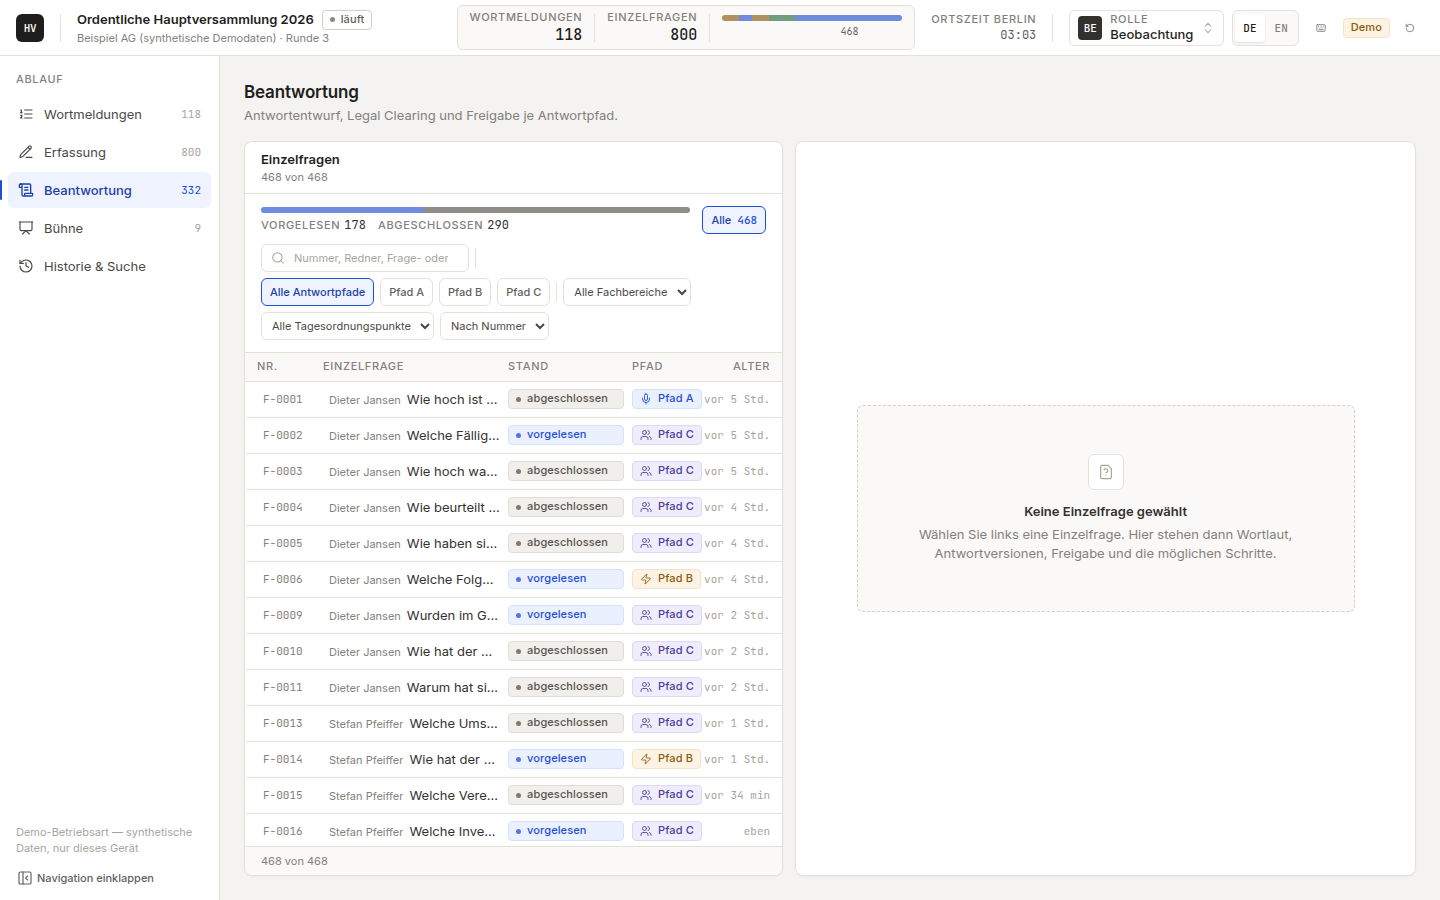
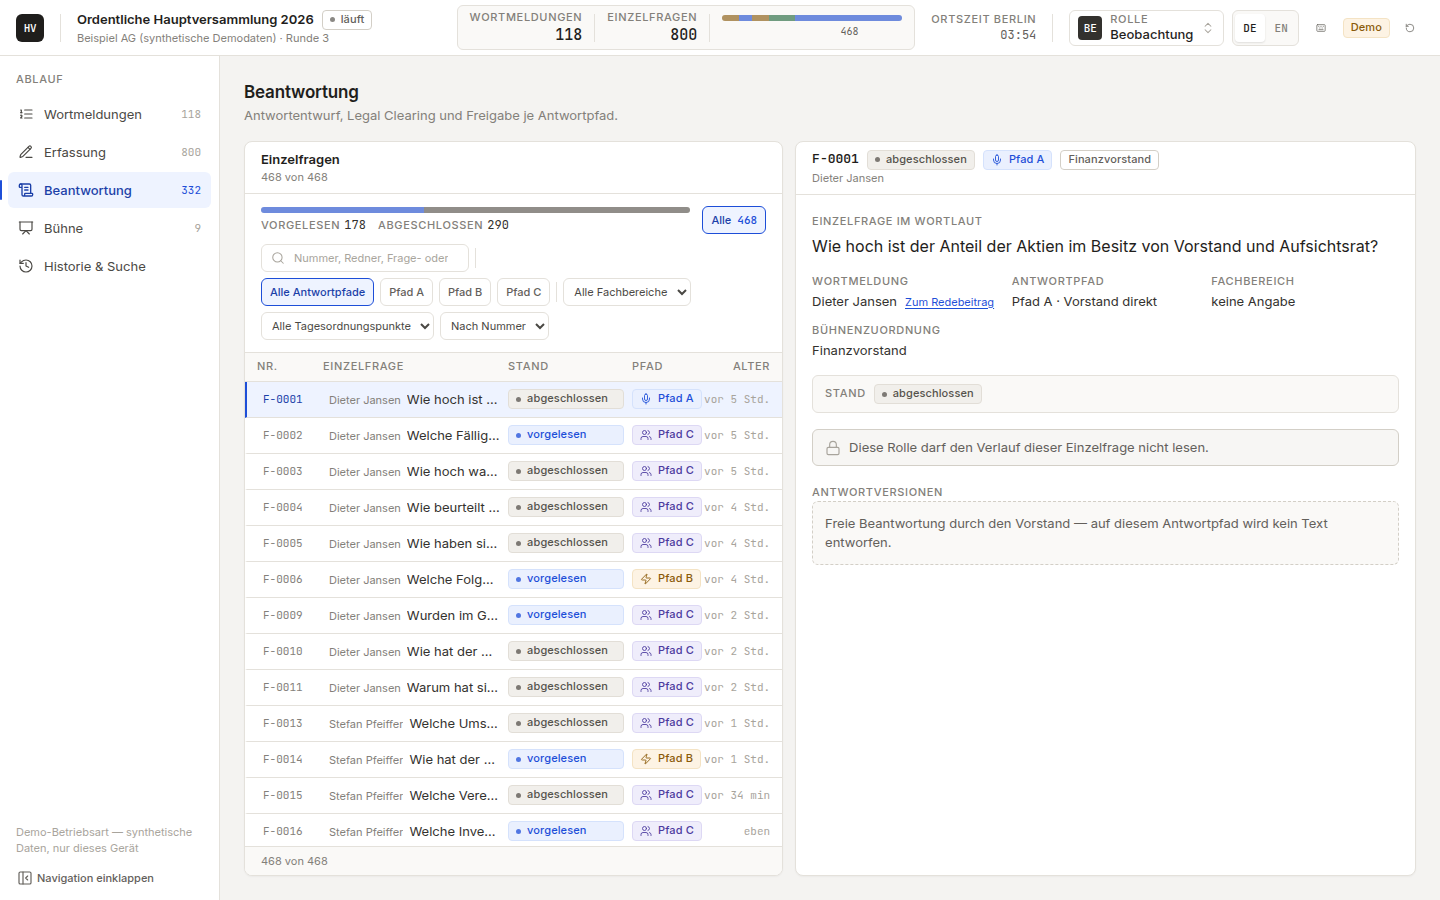
test(web): e2e-Nacharbeit — Blocker, Major und die Test-Lücken der Runde 2 (Scheibe 010b) [skip netlify]
Neue Szenarien: Erfassung unter observer (Blocker), Beantwortung/Historie unter podium (test gap
8b, ganze Ansicht ohne jedes Leserecht), Bühne unter expert mit gespeichertem "Nur Bühne" (minor 4).
Bestehende Szenarien erweitert: Beantwortung unter observer öffnet jetzt eine Zeile und prüft die
sichtbare Einzelfrage samt Verlaufs-Hinweis (major); die Ereignisstrom-Prüfung unter observer prüft
zusätzlich, dass keine veraltete Ereigniszahl stehen bleibt (minor 3); die Historie-unter-expert-Probe
prüft zusätzlich den Ereignisstrom-Tab, mit einer Begründung, warum "Namen aus listSpeakers fehlen"
unter den heutigen Rechtevergaben nirgends sichtbar ist (test gap 8a).

Der No-Toast-Helfer ist jetzt auf den echten Toast-Container beschränkt (role="status" sitzt jetzt
auch auf jedem gestalteten Zustand, minor 5, und hätte sich sonst selbst gefunden) und wartet zwei
Frames statt sich auf eine sofort erfüllte Zusicherung zu verlassen (nit 11a). Titel-Zeichensetzung
in den Assertions an die geänderten Wörterbucheinträge angepasst.

Screenshots (nur die drei betroffenen, unverändert inhaltlich, mit der Zeitleiste einer neuen
Aufnahme neu erzeugt): 010b-answers-observer-{de,en}.png zeigt jetzt zusätzlich die geöffnete
Einzelfrage mit dem Verlaufs-Hinweis (major).

Roter und grüner Lauf der Erfassungs-Blocker-Probe, die volle Playwright-Zusammenfassung, das
`pnpm gates`-Ende und die slice-scope-Zeile stehen im Bericht.

Claude-Session: https://claude.ai/code/session_01S9NCWL4pWEoGm6P6dJbckX

diff --git a/apps/web/e2e/010b-lesepfade.spec.ts b/apps/web/e2e/010b-lesepfade.spec.ts
@@ -7,11 +7,20 @@
  * the house's existing empty-state component instead of an error toast (docs/design-prinzipien.md,
  * "Fehler zeigen Grund und Regel-ID" / "leere Zustände sind gestaltet").
  *
- * Covers every state docs/slices/010b-lesepfade-oberflaeche.md's Ziel 5 lists:
+ * Covers every state docs/slices/010b-lesepfade-oberflaeche.md's Ziel 5 lists, plus the gaps a
+ * review round found ("Nacharbeit nach Review und Codex" in the same spec's Bericht):
  *   - Wortmeldeliste under podium (no `speaker.read` at all).
- *   - Bühne under expert (holds `question.read`, but no `stage.read`).
+ *   - Bühne under expert (holds `question.read`, but no `stage.read`) — twice: once with the
+ *     ordinary layout's own default, once with a stored "Nur Bühne" choice forced ahead of the
+ *     visit, proving the fullscreen device and its chrome never take over a role that cannot read
+ *     the stage (minor 4).
+ *   - Erfassung under observer (blocker, also Codex P1: `listContributions` used to run only once
+ *     a `speakerId` resolved, and every role denied `contribution.read` is also denied
+ *     `speaker.read`, so it never even tried the Hauptabfrage).
  *   - Beantwortung under observer (holds the scoped `question.read.delivered` — sees fewer rows,
- *     never a forbidden state of its own, per Ziel 3).
+ *     never a forbidden state of its own, per Ziel 3), including opening a row (major finding:
+ *     `getQuestion`/`getQuestionHistory` used to share one `Promise.all`, so a denied history
+ *     rejected the question too and a click looked like nothing happened).
  *   - Historie under observer (Trefferliste scoped the same way; the Vorgangshistorie- and
  *     Ereignisstrom-tabs of the right panel *are* forbidden — observer holds neither `history.read`
  *     nor `event.read`).
@@ -19,6 +28,8 @@
  *     used to be bundled into the same `Promise.all` as the corpus read it shares no permission
  *     with, and a denied Nebenabfrage rejected the whole group — the timeline could never open even
  *     though expert can read every question and its history fine).
+ *   - Beantwortung and Historie under podium (test gap 8b, acceptance criterion 1): the whole-view
+ *     gestalteter Zustand for a role denied the Hauptabfrage outright, not just scoped like observer.
  * Every scenario also checks axe (slice 013's two-pass helper) and that no error toast appears.
  */
 import { expect, test } from '@playwright/test';
@@ -45,10 +56,24 @@ async function waitForCorpus(page: Page): Promise<void> {
     .toBeGreaterThanOrEqual(SEEDED_QUESTIONS);
 }
 
-/** Toasts (`components/Toast.tsx`) render as `role="status"` — a refused read must never raise one
- *  (Ziel 5, "Kein Fehler-Toast in diesen Fällen"), only the gestaltete Zustand it is replaced by. */
+/**
+ * Toasts (`components/Toast.tsx`) render as `role="status"` inside the shell's one
+ * `aria-live="polite"` stack (`ToastProvider`) — scoped to that container, not to `role="status"`
+ * alone: minor 5 (review round 2) gives every gestaltete Zustand the same role so a screen reader
+ * announces it too, and an unscoped selector would find those instead of an actual toast.
+ *
+ * Nit 11a: `expect(...).toHaveCount(0)` resolves the instant the count reads zero — it does not
+ * wait out its own timeout to see whether a toast is still on its way in. The in-process demo API
+ * (`apps/web/src/api/index.ts`) settles every read on a microtask, well within a frame, so one
+ * settled repaint (`requestAnimationFrame`, twice — Chromium can coalesce a single one with work
+ * already queued) is enough of a wait to be honest, without the flakiness `networkidle` risks
+ * against Vite's own always-open HMR socket.
+ */
 async function expectNoErrorToast(page: Page): Promise<void> {
-  await expect(page.locator('[role="status"]')).toHaveCount(0);
+  await page.evaluate(
+    () => new Promise<void>((resolve) => requestAnimationFrame(() => requestAnimationFrame(() => resolve()))),
+  );
+  await expect(page.locator('[aria-live="polite"] [role="status"]')).toHaveCount(0);
 }
 
 /** The status word of a Historie result row — its last direct `<span>` child, the `StatusBadge`
@@ -107,10 +132,76 @@ test('Bühne unter expert zeigt den Zustand "keine Leseberechtigung"', async ({ 
   await page.getByTestId('lang-toggle').click();
   await page.getByTestId('lang-option-en').click();
   await expect(page.locator('html')).toHaveAttribute('lang', 'en');
-  await expect(forbidden).toContainText('This role has no read permission for this view.');
+  await expect(forbidden).toContainText('This role has no read permission for this view');
   await expectNoErrorToast(page);
   await page.evaluate(() => document.fonts.ready);
   await page.screenshot({ path: evidence('010b-stage-expert-en.png') });
+});
+
+test('Bühne unter expert bleibt im gewöhnlichen Layout, auch wenn "Nur Bühne" gespeichert ist', async ({
+  page,
+}) => {
+  /**
+   * Minor 4 (review round 2): a stored "Nur Bühne" choice (`hv-stage-only-v1`) is a fact about the
+   * device, not about whether this role may currently read the stage — no role that is denied
+   * `stage.read` ever derives "Nur Bühne" on its own (`stageOnlyByRights` needs `question.deliver`,
+   * and the only role that holds it, podium, always holds `stage.read` too), so this can only be
+   * observed by forcing the stored choice ahead of the visit, before the app boots.
+   */
+  await page.addInitScript(() => {
+    window.localStorage.setItem('hv-stage-only-v1', '1');
+  });
+  await page.goto('/');
+  await waitForCorpus(page);
+
+  await asRole(page, 'expert');
+  await page.getByTestId('nav-stage').click();
+  await expect(page).toHaveURL(/\/stage$/);
+
+  // The fullscreen "Nur Bühne" overlay, and every counter/toggle it would have carried, stays off
+  // — a role that cannot read the stage gets the ordinary layout's gestalteter Zustand instead of
+  // a fullscreen device with nothing real to show.
+  await expect(page.getByTestId('stage-only')).toHaveCount(0);
+  const forbidden = page.getByTestId('stage-forbidden');
+  await expect(forbidden).toBeVisible();
+  await expect(page.getByTestId('stage-counter-delivered')).toHaveCount(0);
+  await expect(page.getByTestId('stage-counter-open')).toHaveCount(0);
+  await expect(page.getByTestId('stage-contrast-toggle')).toHaveCount(0);
+  await expect(page.getByTestId('stage-only-toggle')).toHaveCount(0);
+
+  // The keyboard shortcuts of a device that has nothing to act on are refused outright — a click
+  // on the gestaltete Zustand's own text first moves focus off the nav link `nav-stage` just
+  // activated (an `<a>`, itself an interactive target the handler already ignores) so this
+  // actually exercises the new `forbidden` guard, not the pre-existing interactive-target one.
+  await forbidden.click();
+  await page.keyboard.press('Space');
+  await expectNoErrorToast(page);
+  await expect(page.getByTestId('stage-current')).toHaveCount(0);
+
+  await checkAxe(page, 'stage (expert, no read permission, stored "Nur Bühne")');
+});
+
+test('Erfassung unter observer zeigt den Zustand "keine Leseberechtigung"', async ({ page }) => {
+  await page.goto('/');
+  await waitForCorpus(page);
+
+  // Blocker (review round 2, also Codex P1): observer holds neither `speaker.read` nor
+  // `contribution.read`. `listContributions` (the Hauptabfrage) used to run only once a
+  // `speakerId` existed, and `speakerId` is only ever derived from a successful `listSpeakers` —
+  // so a role denied both never triggered the Hauptabfrage's own 403 at all and fell through to
+  // the ordinary "no contribution chosen" empty desk, with the read-only hint on top of it (wrong:
+  // a role that cannot read the desk is not "read only" on it, it cannot see it).
+  await asRole(page, 'observer');
+  await page.getByTestId('nav-capture').click();
+  await expect(page).toHaveURL(/\/capture$/);
+
+  const forbidden = page.getByTestId('capture-forbidden');
+  await expect(forbidden).toBeVisible();
+  await expect(forbidden).toContainText('In dieser Rolle keine Leseberechtigung für diese Ansicht');
+  await expect(page.getByTestId('capture-readonly-hint')).toHaveCount(0);
+
+  await expectNoErrorToast(page);
+  await checkAxe(page, 'capture (observer, no read permission)');
 });
 
 test('Beantwortung unter observer zeigt nur vorgelesene Fragen', async ({ page }) => {
@@ -131,8 +222,21 @@ test('Beantwortung unter observer zeigt nur vorgelesene Fragen', async ({ page }
   // No gestalteter "keine Leseberechtigung"-Zustand here — the view stands with fewer rows, not none.
   await expect(page.getByTestId('answers-forbidden')).toHaveCount(0);
 
+  /**
+   * Major (review round 2): `getQuestion` and `getQuestionHistory` used to share one
+   * `Promise.all` — observer holds no `history.read`, so every row click rejected as a whole and
+   * the detail stayed on "Keine Einzelfrage gewählt" with no feedback at all. The question must
+   * show regardless, and the refused state stands where its history would be.
+   */
+  await rows.first().click();
+  await expect(page.getByTestId('answers-detail')).toBeVisible();
+  await expect(page.getByTestId('answers-detail-number')).not.toBeEmpty();
+  const historyForbidden = page.getByTestId('answers-history-forbidden');
+  await expect(historyForbidden).toBeVisible();
+  await expect(historyForbidden).toContainText('Diese Rolle darf den Verlauf dieser Einzelfrage nicht lesen.');
+
   await expectNoErrorToast(page);
-  await checkAxe(page, 'answers (observer, delivered/closed only)');
+  await checkAxe(page, 'answers (observer, delivered/closed only, question detail open)');
 
   await page.evaluate(() => document.fonts.ready);
   await page.screenshot({ path: evidence('010b-answers-observer-de.png') });
@@ -140,6 +244,7 @@ test('Beantwortung unter observer zeigt nur vorgelesene Fragen', async ({ page }
   await page.getByTestId('lang-toggle').click();
   await page.getByTestId('lang-option-en').click();
   await expect(page.locator('html')).toHaveAttribute('lang', 'en');
+  await expect(historyForbidden).toContainText('This role may not read the course of this question.');
   await expectNoErrorToast(page);
   await page.evaluate(() => document.fonts.ready);
   await page.screenshot({ path: evidence('010b-answers-observer-en.png') });
@@ -180,17 +285,20 @@ test('Historie unter observer: nur Vorgelesenes, Zeitleiste und Ereignisstrom oh
   const streamForbidden = page.getByTestId('history-stream-forbidden');
   await expect(streamForbidden).toBeVisible();
   await expect(page.getByTestId('history-stream')).toHaveCount(0);
+  // Minor 3 (review round 2): the "Die letzten n Ereignisse" count line belongs to real data — it
+  // must not linger, stale, next to the refused state.
+  await expect(page.getByText(/Die letzten \d+ Ereignisse/)).toHaveCount(0);
   await expectNoErrorToast(page);
   await checkAxe(page, 'history (observer, Ereignisstrom forbidden)');
 
   await page.getByTestId('lang-toggle').click();
   await page.getByTestId('lang-option-en').click();
   await expect(page.locator('html')).toHaveAttribute('lang', 'en');
-  await expect(streamForbidden).toContainText('This role has no read permission for the event stream.');
+  await expect(streamForbidden).toContainText('This role has no read permission for the event stream');
   await page.getByTestId('history-tab-question').click();
   await expect(timelineForbidden).toBeVisible();
   await expect(timelineForbidden).toContainText(
-    'This role has no read permission for the history of this question.',
+    'This role has no read permission for the history of this question',
   );
   await expectNoErrorToast(page);
   await page.evaluate(() => document.fonts.ready);
@@ -218,6 +326,65 @@ test('Historie unter expert öffnet die Zeitleiste', async ({ page }) => {
   await expect(page.getByTestId('history-event').first()).toBeVisible();
   await expect(page.getByTestId('history-timeline-forbidden')).toHaveCount(0);
 
+  /**
+   * Test gap 8a (review round 2): "Namen aus listSpeakers fehlen" (docs/slices/010b-lesepfade-
+   * oberflaeche.md Ziel 5). `speakerNames` (the Nebenabfrage's own result) feeds exactly one
+   * place: `eventSubject()` (eventSummary.ts), read only by the "Ereignisstrom" tab's subject
+   * column — the "Vorgangshistorie" tab open above uses `eventSummary()` instead, which never
+   * reads it (`SpeakerRegistered`'s own name comes from `event.payload.displayName`, embedded in
+   * the event itself, not looked up). `event.read` — the Ereignisstrom's own Hauptabfrage — is
+   * held by no role that lacks `speaker.read` either (`event.read`: admin only; admin holds every
+   * permission, docs/slices/010-lesepfade-leserechte.md Festlegung 4): under today's grants there
+   * is no role for which "the names are missing but the events show" is a state that exists on
+   * screen anywhere to assert on. What is real and testable is the total absence this Nebenabfrage
+   * denial shares with `event.read`'s own denial — checked here.
+   */
+  await page.getByTestId('history-tab-stream').click();
+  await expect(page.getByTestId('history-stream-forbidden')).toBeVisible();
+  await expect(page.getByTestId('history-stream')).toHaveCount(0);
+
   await expectNoErrorToast(page);
   await checkAxe(page, 'history (expert, Vorgangshistorie opens; listSpeakers denied as a Nebenabfrage)');
+});
+
+test('Beantwortung unter podium zeigt den Zustand "keine Leseberechtigung"', async ({ page }) => {
+  await page.goto('/');
+  await waitForCorpus(page);
+
+  // Test gap 8b (review round 2, acceptance criterion 1): podium holds neither `question.read` nor
+  // `question.read.delivered` at all — `listQuestions` (the Hauptabfrage) refuses outright, unlike
+  // observer's scoped grant.
+  await asRole(page, 'podium');
+  await page.getByTestId('nav-answers').click();
+  await expect(page).toHaveURL(/\/answers$/);
+
+  const forbidden = page.getByTestId('answers-forbidden');
+  await expect(forbidden).toBeVisible();
+  await expect(forbidden).toContainText('In dieser Rolle keine Leseberechtigung für diese Ansicht');
+  // Minor 6 (review round 2): the right pane does not go on inviting a click into a backlog that
+  // does not exist for this role.
+  await expect(page.getByTestId('answers-detail')).toHaveCount(0);
+  await expect(page.getByText('Wählen Sie links eine Einzelfrage')).toHaveCount(0);
+
+  await expectNoErrorToast(page);
+  await checkAxe(page, 'answers (podium, no read permission)');
+});
+
+test('Historie unter podium zeigt den Zustand "keine Leseberechtigung"', async ({ page }) => {
+  await page.goto('/');
+  await waitForCorpus(page);
+
+  // Test gap 8b: podium holds neither `question.read` nor `question.read.delivered` — the whole
+  // view's Hauptabfrage (`listQuestions`) refuses, unlike observer's scoped grant (Ziel 3).
+  await asRole(page, 'podium');
+  await page.getByTestId('nav-history').click();
+  await expect(page).toHaveURL(/\/history$/);
+
+  const forbidden = page.getByTestId('history-forbidden');
+  await expect(forbidden).toBeVisible();
+  await expect(forbidden).toContainText('In dieser Rolle keine Leseberechtigung für diese Ansicht');
+  await expect(page.getByTestId('history-result')).toHaveCount(0);
+
+  await expectNoErrorToast(page);
+  await checkAxe(page, 'history (podium, no read permission, whole view)');
 });
